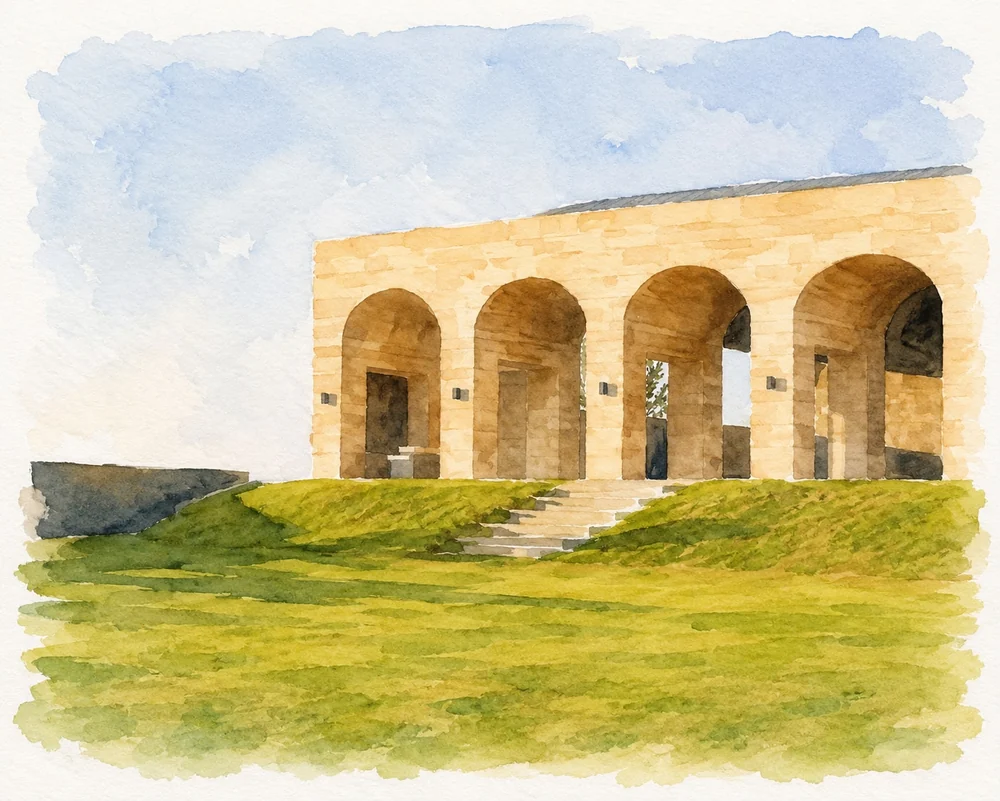
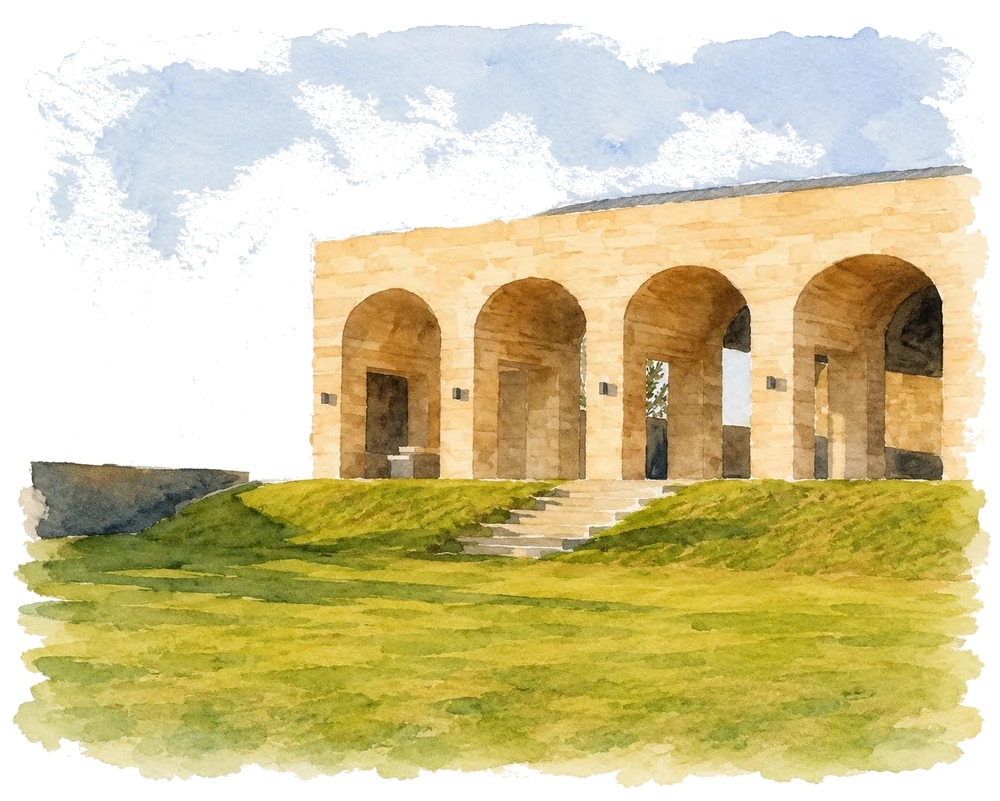
fix: quitar fondo blanco del borde en iglesia y salon (flood-fill) + remover difuminado artificial

diff --git a/index.html b/index.html
@@ -1009,11 +1009,7 @@ h2 em{font-family:var(--script)!important;font-style:normal!important;color:var(
 
 /* ---- Imágenes con bordes difuminados (sin marco) ---- */
 .soft-img{width:100%;max-width:340px;margin:0 auto 26px}
-.soft-img img{display:block;width:100%;height:auto;
-  -webkit-mask-image:radial-gradient(ellipse 78% 82% at 50% 50%, #000 26%, rgba(0,0,0,.5) 55%, transparent 78%);
-  -webkit-mask-size:cover;-webkit-mask-position:center;
-  mask-image:radial-gradient(ellipse 78% 82% at 50% 50%, #000 26%, rgba(0,0,0,.5) 55%, transparent 78%);
-  mask-size:cover;mask-position:center;}
+.soft-img img{display:block;width:100%;height:auto;-webkit-mask-image:none;mask-image:none}
 .soft-photo{width:min(430px,84vw);margin:14px auto 0}
 .soft-photo img{display:block;width:100%;height:auto;border-radius:4px;filter:saturate(.96) contrast(1.02);
   -webkit-mask-image:radial-gradient(ellipse 80% 84% at 50% 50%, #000 30%, rgba(0,0,0,.5) 58%, transparent 82%);
